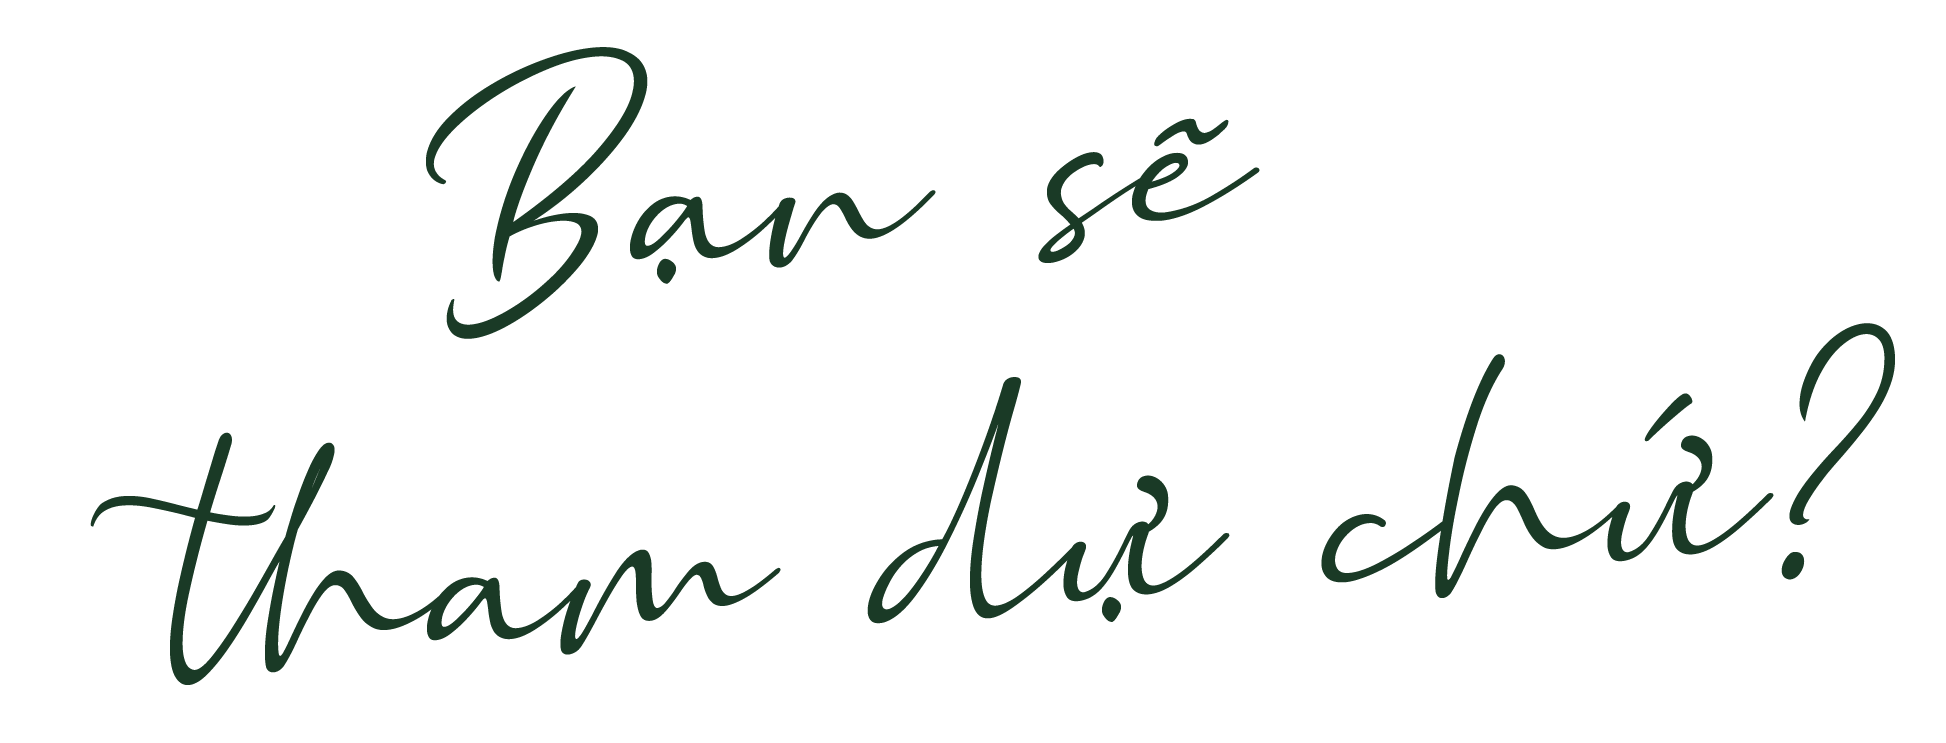
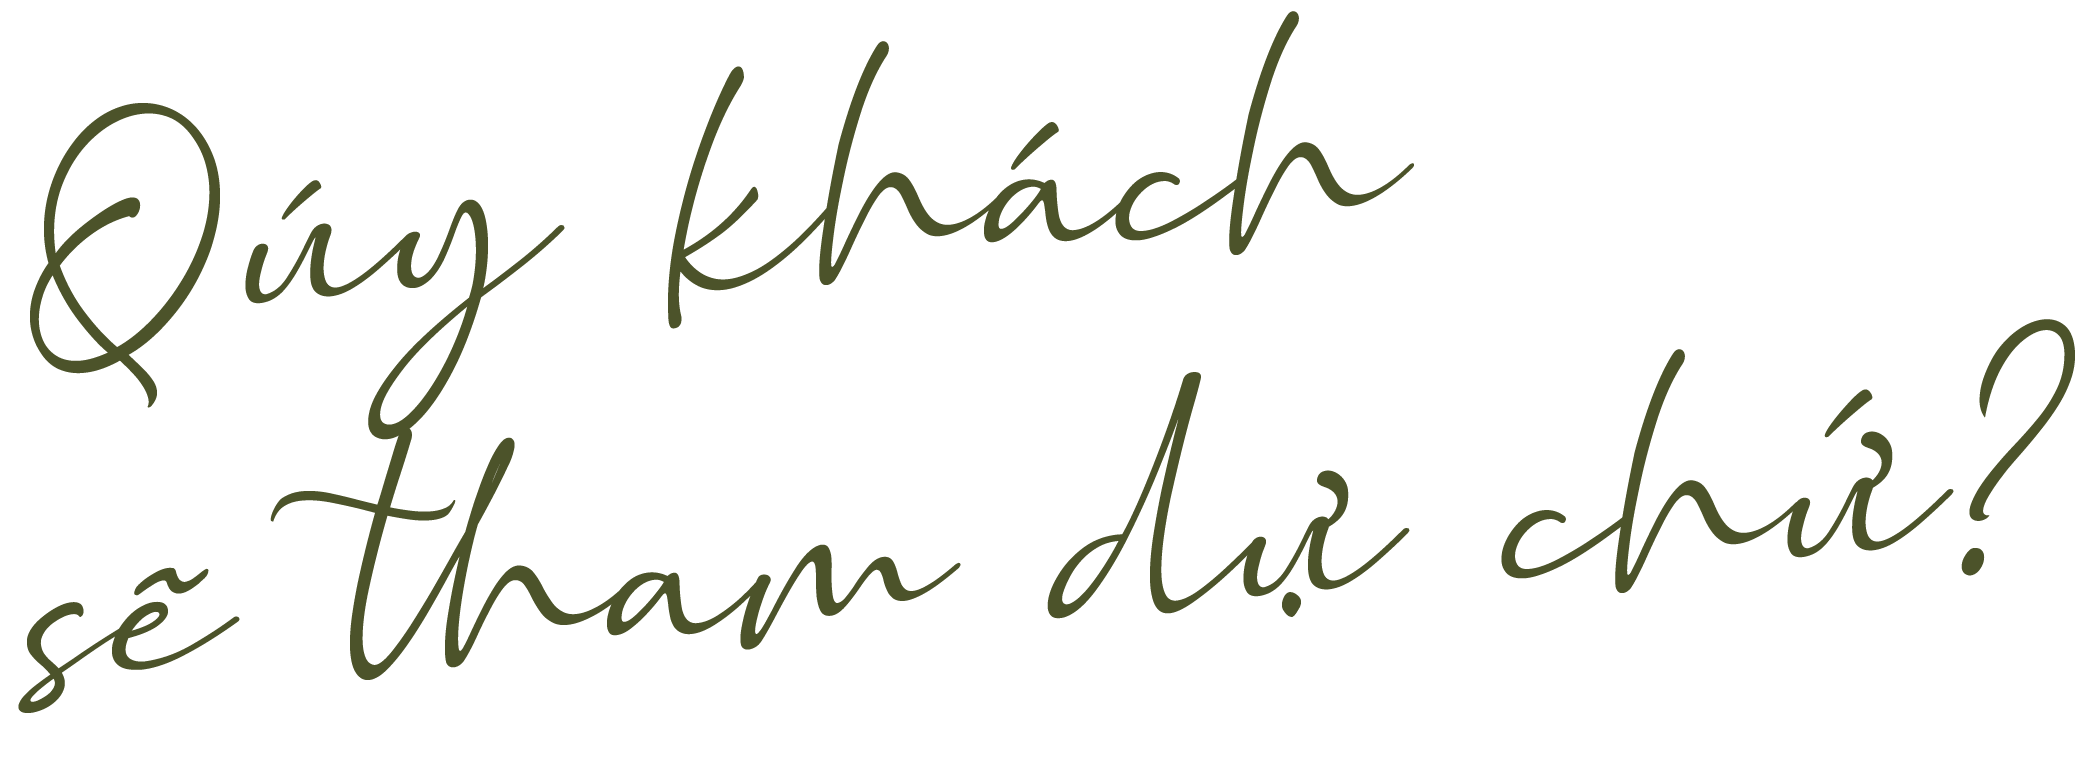
update

diff --git a/xacnhan.html b/xacnhan.html
@@ -6,17 +6,18 @@
 
     <link rel="stylesheet" href="./thiep/xacnhan.css">
     <link href="https://cdnjs.cloudflare.com/ajax/libs/font-awesome/4.2.0/css/font-awesome.min.css" rel="stylesheet" type="text/css">
-    <title>THẮNG - NHUNG</title>
+    <title>QUÂN - CHI</title>
 </head>
 <body>
 
     <div class="container">
         <div class="container-wrapper">
             <div class="box-form">
-                <img src="./thiep/anh/thamdu-07.png" alt="" class="img-form">
-                <form action="" name="">
+                <img src="./thiep/anh/thamdu-04.png" alt="" class="img-form">
+                <form action="" name="quan-chi">
                     <div class="feed-info">
-                        <label for="" class="in-fe">DÀNH CHÚT THỜI GIAN ĐỂ XÁC NHẬN THAM DỰ GIÚP <strong>QUÂN & CHI</strong> NHÉ!</label>
+                        <label for="" class="in-fe">ĐỂ THUẬN TIỆC CHO VIỆC SẮP XẾP. <br>
+                            HÃY XÁC NHẬN THAM DỰ TRƯỚC NGÀY 8.12.2024 GIÚP <strong>QUÂN & CHI</strong> NHÉ!</label>
                     </div>
         
                     <div class="container-check">
@@ -61,8 +62,8 @@
     
 
     <script>
-        const scriptURL = 'https://script.google.com/macros/s/AKfycbzqb0Yl894o6TnTuiGQtfvxnNopOpZiOSL7cMgXQgDTU_hHB5U-t38EPxyLGMB2BEvs/exec';
-        const form = document.forms['thang-nhung'];
+        const scriptURL = 'https://script.google.com/macros/s/AKfycbzOjA-XdurCx2Jub39YCD2pYQgBjumJIcMfEAK2k-5aLhyAvgT66L2ckCwB-0SMYpM/exec';
+        const form = document.forms['quan-chi'];
     
         form.addEventListener('submit', e => {
         e.preventDefault();

diff --git a/thiepmoi.html b/thiepmoi.html
@@ -55,7 +55,7 @@
                 <a data-fancybox data-src="#thiepmoi" href="javascript:;" class="btn btn-primary">
                 <img src="./thiep/anh/IMG_1101.GIF" alt="" class="img-top"></a>
 
-                <img src="./thiep/anh/q-c-07.png" alt="" class="img-top1">
+                <img src="./thiep/anh/q-c-04.png" alt="" class="img-top1">
                 <div class="box-btn">
                     <div class="row">
                         <!-- <button data-modal-target="modal1" class="btn-modal"><img src="./thiep/anh/qr-04.png" alt="" class="img-btn"></button> -->
@@ -80,7 +80,7 @@
               <div class="modal-content">
                 <span class="modal-close">&times;</span>
                 <h1>THỜI GIAN & ĐỊA ĐIỂM</h1>
-               <img src="./thiep/anh/tgdd-05.png" alt="" class="img-modal">
+               <img src="./thiep/anh/tgdd-04.png" alt="" class="img-modal">
               </div>
             </div>
 

diff --git a/thiep/xacnhan.css b/thiep/xacnhan.css
@@ -302,7 +302,7 @@
 }
 
 .img-form{
-  width: 100%;
+  width: 90%;
 }
 .lb-form{
   font-size: 25px;
@@ -312,8 +312,9 @@
 
 .feed-info{
   display: flex;
-  /* justify-content: center; */
+  justify-content: center;
   align-items: center;
+  text-align: center;
   margin: 20px 0;
 }
 
@@ -369,8 +370,8 @@ border-radius: 20px;
 }
 
 .box-feed:checked+label {
-color: #fff;
-background-color: #61673A;
+color: #111;
+background-color: #F9C3D2;
 }
 
 .box-feed{
@@ -398,8 +399,8 @@ font-style: normal;
 background-color: #fff;
 }
 .box-feed:checked+label {
-color: #fff;
-background-color: #61673A;
+color: #111;
+background-color: #F9C3D2;
 }
 
 .box-ten{
@@ -431,8 +432,8 @@ background-color: #61673A;
 .xacnhan{
   height: 30px;
   font-size: 15px;
-  background: #61673A;
-  color: #fff;
+  background: #F9C3D2;
+  color: #111;
   margin: 20px 10px;
   border-radius: 20px;
   border: 1px solid black;
